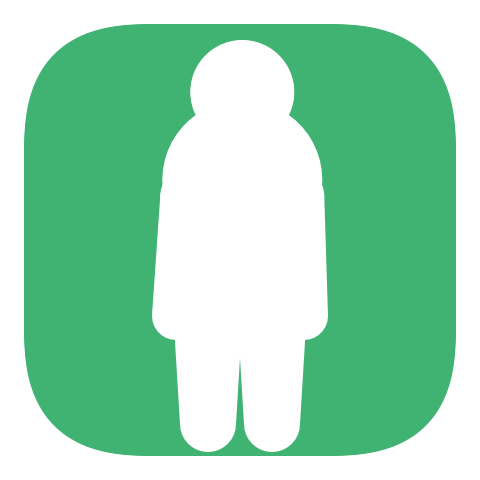
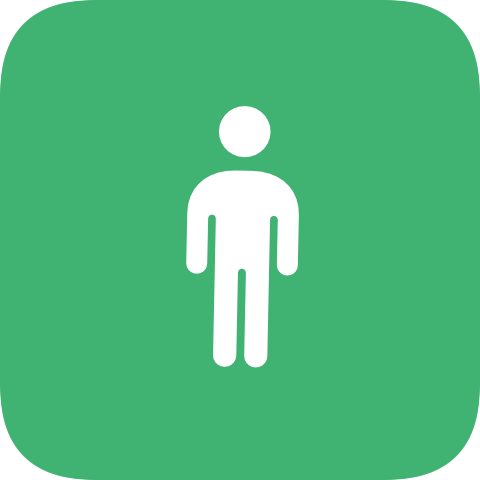
Switch figures to SF Symbols and make phase selectors larger/distinct
Use the SF Symbol figures (seated/standing/walking) everywhere for one
cohesive look matching the menu bar and the top selectors. The big actor
is now a white SF Symbol on the solid phase-color tile with looping
motion (breathe/sway/walking bob). The top phase selectors become larger
rounded tiles with bigger hit targets — the active phase shows white on
its color (a mini of the main figure), the rest gray — and tapping one
while idle picks the starting phase.

diff --git a/Sources/SitStandMove/FigureView.swift b/Sources/SitStandMove/FigureView.swift
@@ -1,145 +1,43 @@
 import SwiftUI
 
-/// A solid restroom-pictogram "bathroom guy" performing the current action,
-/// drawn white on a solid phase-color tile. The body is built from filled
-/// *tapered* limbs (wide at the joint, narrow at the end) that overlap into one
-/// smooth silhouette — broad rounded shoulders, a tapering trunk, legs split by
-/// a thin notch — rather than uniform-width sticks.
+/// The actor for the current phase: a white SF Symbol figure (the same symbols
+/// used by the phase selectors and the menu bar) centered on a solid
+/// phase-color tile, so it stays crisp and distinct from the panel behind it.
 ///
-/// Coordinates live in a 0...120 space (matching the source artwork) and are
-/// scaled to the view at draw time. Looping motion: breathing + a foot tap when
-/// seated, a gentle sway when standing, a march when moving.
+/// A bit of looping motion keeps it alive: breathing when seated, a gentle sway
+/// when standing, and a walking bob when moving.
 struct FigureView: View {
     let phase: Phase
 
     var body: some View {
-        TimelineView(.animation) { timeline in
-            Canvas { context, size in
-                draw(context, size, timeline.date.timeIntervalSinceReferenceDate)
+        GeometryReader { geo in
+            let s = min(geo.size.width, geo.size.height)
+            TimelineView(.animation) { timeline in
+                let m = motion(timeline.date.timeIntervalSinceReferenceDate)
+                ZStack {
+                    RoundedRectangle(cornerRadius: s * 0.17, style: .continuous)
+                        .fill(phase.tint)
+                    Image(systemName: phase.symbolName)
+                        .resizable()
+                        .scaledToFit()
+                        .foregroundStyle(.white)
+                        .frame(width: s * 0.56, height: s * 0.56)
+                        .scaleEffect(CGSize(width: 1, height: m.scaleY), anchor: .bottom)
+                        .rotationEffect(.degrees(m.rotation), anchor: .bottom)
+                        .offset(y: m.offsetY * s / 120)
+                }
+                .frame(width: geo.size.width, height: geo.size.height)
             }
         }
         .accessibilityLabel("\(phase.title) figure")
     }
 
-    /// A tapered segment: half-width `wa` at point `a`, `wb` at point `b`.
-    private struct Limb { var a: CGPoint; var wa: Double; var b: CGPoint; var wb: Double }
-    private struct Fig { var head: CGPoint; var headR: Double; var limbs: [Limb]; var props: [Limb] }
-
-    // MARK: - Rendering
-
-    private func draw(_ ctx: GraphicsContext, _ size: CGSize, _ t: Double) {
-        let scale = min(size.width, size.height) / 120.0
-
-        let m = 6 * scale
-        let tile = CGRect(x: m, y: m, width: size.width - 2 * m, height: size.height - 2 * m)
-        ctx.fill(Path(roundedRect: tile, cornerRadius: 26 * scale), with: .color(phase.tint))
-
-        let fig = figure(t)
-        for limb in fig.props + fig.limbs { fill(ctx, size, scale, limb) }
-
-        let r = fig.headR * scale
-        let c = point(fig.head, size)
-        ctx.fill(Path(ellipseIn: CGRect(x: c.x - r, y: c.y - r, width: 2 * r, height: 2 * r)), with: .color(.white))
-    }
-
-    /// Fill one tapered limb as two end-discs plus the connecting trapezoid.
-    /// Overlapping white fills merge seamlessly into the unified silhouette.
-    private func fill(_ ctx: GraphicsContext, _ size: CGSize, _ scale: Double, _ l: Limb) {
-        let p0 = point(l.a, size), p1 = point(l.b, size)
-        let r0 = l.wa * scale, r1 = l.wb * scale
-
-        var discs = Path()
-        discs.addEllipse(in: CGRect(x: p0.x - r0, y: p0.y - r0, width: 2 * r0, height: 2 * r0))
-        discs.addEllipse(in: CGRect(x: p1.x - r1, y: p1.y - r1, width: 2 * r1, height: 2 * r1))
-        ctx.fill(discs, with: .color(.white))
-
-        let dx = p1.x - p0.x, dy = p1.y - p0.y
-        let len = max(0.0001, (dx * dx + dy * dy).squareRoot())
-        let nx = -dy / len, ny = dx / len
-        var quad = Path()
-        quad.move(to: CGPoint(x: p0.x + nx * r0, y: p0.y + ny * r0))
-        quad.addLine(to: CGPoint(x: p1.x + nx * r1, y: p1.y + ny * r1))
-        quad.addLine(to: CGPoint(x: p1.x - nx * r1, y: p1.y - ny * r1))
-        quad.addLine(to: CGPoint(x: p0.x - nx * r0, y: p0.y - ny * r0))
-        quad.closeSubpath()
-        ctx.fill(quad, with: .color(.white))
-    }
-
-    // MARK: - Poses
-
-    private func figure(_ t: Double) -> Fig {
+    /// Per-phase looping transform: (vertical scale, rotation°, vertical offset).
+    private func motion(_ t: Double) -> (scaleY: Double, rotation: Double, offsetY: Double) {
         switch phase {
-        case .sit:   return sitFig(t)
-        case .stand: return standFig(t)
-        case .move:  return moveFig(t)
+        case .sit:   return (1 + 0.04 * sin(t * 1.8), 0, 0)         // breathing
+        case .stand: return (1, 2.0 * sin(t * 1.4), 0)             // sway
+        case .move:  return (1, 1.5 * sin(t * 5.0), -abs(sin(t * 5.0)) * 5) // walking bob
         }
-    }
-
-    private func standFig(_ t: Double) -> Fig {
-        let sx = sin(t * 1.4) * 1.3   // gentle upper-body sway
-        return Fig(
-            head: CGPoint(x: 60 + sx, y: 23), headR: 13,
-            limbs: [
-                L(60 + sx, 45, 20, 60, 73, 14),  // shoulders -> waist (broad, tapering)
-                L(47 + sx, 49, 7.5, 44, 79, 6),  // left arm
-                L(73 + sx, 49, 7.5, 76, 79, 6),  // right arm
-                L(52, 73, 9, 52, 106, 7),        // left leg
-                L(68, 73, 9, 68, 106, 7),        // right leg
-            ],
-            props: []
-        )
-    }
-
-    private func sitFig(_ t: Double) -> Fig {
-        let breathe = sin(t * 1.6) * 1.0          // slow breathing
-        let tap = max(0, sin(t * 4.5)) * 3.0      // restless foot tap
-        return Fig(
-            head: CGPoint(x: 51, y: 27 + breathe), headR: 12.5,
-            limbs: [
-                L(54, 41 + breathe, 12, 57, 70, 12),       // torso (upright, side profile)
-                L(55, 47 + breathe, 7, 71, 66, 5.5),       // arm resting forward
-                L(57, 70, 11, 82, 73, 9),                  // thigh (horizontal)
-                L(82, 73, 9, 82, 100 - tap, 7),            // shin (foot taps)
-            ],
-            props: [
-                L(50, 82, 5, 86, 82, 5),      // stool seat slab
-                L(80, 85, 3.5, 80, 108, 3.5), // front leg
-                L(58, 85, 3.5, 58, 108, 3.5), // back leg
-            ]
-        )
-    }
-
-    private func moveFig(_ t: Double) -> Fig {
-        // Side-profile walking stride: legs scissor fore/aft and arms counter-
-        // swing, so it reads as walking even in a still frame.
-        let s = sin(t * 4.5)
-        let bob = -abs(s) * 1.6
-        let hipY = 72 + bob * 0.6
-        let kneeSpread = 9.0, footSpread = 17.0
-        let frontLift = max(0, s) * 4, backLift = max(0, -s) * 4
-        return Fig(
-            head: CGPoint(x: 60, y: 23 + bob), headR: 13,
-            limbs: [
-                L(61, 45 + bob, 16, 59, hipY, 13),                                         // torso (leans forward)
-                L(60, 49 + bob, 6.5, 60 - 13 * s, 71, 5),                                  // arm
-                L(60, 49 + bob, 6.5, 60 + 13 * s, 71, 5),                                  // arm (opposite)
-                L(59, hipY, 9, 59 + kneeSpread * s, 90 - frontLift, 8),                    // leg thigh
-                L(59 + kneeSpread * s, 90 - frontLift, 8, 59 + footSpread * s, 106 - frontLift, 7), // leg shin
-                L(59, hipY, 9, 59 - kneeSpread * s, 90 - backLift, 8),                     // leg thigh (opposite)
-                L(59 - kneeSpread * s, 90 - backLift, 8, 59 - footSpread * s, 106 - backLift, 7),  // leg shin (opposite)
-            ],
-            props: []
-        )
-    }
-
-    // MARK: - Helpers
-
-    private func L(_ ax: Double, _ ay: Double, _ wa: Double,
-                   _ bx: Double, _ by: Double, _ wb: Double) -> Limb {
-        Limb(a: CGPoint(x: ax, y: ay), wa: wa, b: CGPoint(x: bx, y: by), wb: wb)
-    }
-
-    private func point(_ p: CGPoint, _ size: CGSize) -> CGPoint {
-        CGPoint(x: p.x / 120 * size.width, y: p.y / 120 * size.height)
     }
 }

diff --git a/Sources/SitStandMove/PopoverView.swift b/Sources/SitStandMove/PopoverView.swift
@@ -38,20 +38,26 @@ struct PopoverView: View {
     // MARK: - Pieces
 
     private var loopIndicator: some View {
-        HStack(spacing: 8) {
+        HStack(spacing: 12) {
             ForEach(Phase.loop, id: \.self) { p in
                 let isCurrent = p == phase
                 Button {
                     timer.selectStartPhase(p)
                 } label: {
-                    Image(systemName: p.symbolName)
-                        .font(.system(size: 14, weight: .semibold))
-                        .foregroundStyle(isCurrent ? p.tint : Color.secondary.opacity(0.45))
-                        .frame(width: 30, height: 30)
-                        .background(
-                            Circle().fill(isCurrent ? p.tint.opacity(0.15) : .clear)
-                        )
-                        .scaleEffect(isCurrent ? 1.1 : 1.0)
+                    ZStack {
+                        RoundedRectangle(cornerRadius: 11, style: .continuous)
+                            .fill(isCurrent ? p.tint : Color.primary.opacity(0.06))
+                        RoundedRectangle(cornerRadius: 11, style: .continuous)
+                            .strokeBorder(Color.primary.opacity(isCurrent ? 0 : 0.10), lineWidth: 1)
+                        Image(systemName: p.symbolName)
+                            .resizable()
+                            .scaledToFit()
+                            .foregroundStyle(isCurrent ? .white : Color.secondary)
+                            .padding(11)
+                    }
+                    .frame(width: 48, height: 48)
+                    // Whole tile is the hit target.
+                    .contentShape(RoundedRectangle(cornerRadius: 11, style: .continuous))
                 }
                 .buttonStyle(.plain)
                 .disabled(timer.mode != .idle)

diff --git a/README.md b/README.md
@@ -9,8 +9,8 @@ action and a single button to start it.
 |:---:|:-----:|:----:|
 | <img src="assets/sit.png" width="140"> | <img src="assets/stand.png" width="140"> | <img src="assets/move.png" width="140"> |
 
-The little actor breathes while sitting, sways while standing, and marches in
-place while moving.
+The little actor breathes while sitting, sways while standing, and bobs along
+while walking.
 
 ## How it works
 